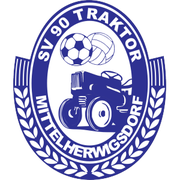
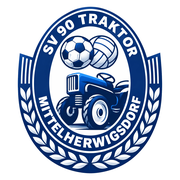
Traktor 90: neues Vereinslogo und daran angepasste Farben
Neues Wappen freigestellt (transparenter Hintergrund), Favicon,
Apple-Touch-Icon und OG-Bild neu erzeugt. Farbpalette auf das Navy des
Logos umgestellt; Bilder mit height:auto gegen Verzerrung.

Claude-Session: https://claude.ai/code/session_018j7nF5LCbzbFzG73LwaTg1

diff --git a/traktor90/index.html b/traktor90/index.html
@@ -7,7 +7,7 @@
 <meta name="description" content="SV 90 Traktor Mittelherwigsdorf e. V. – Sportverein in der südlichen Oberlausitz bei Zittau. Fußball, Volleyball und Gymnastik im Sportzentrum Mittelherwigsdorf. Sportlich aktiv seit 1863.">
 <!-- Entwurf: erst indexieren, wenn die Seite auf der Vereinsdomain live ist -->
 <meta name="robots" content="noindex,follow">
-<meta name="theme-color" content="#2e3192">
+<meta name="theme-color" content="#0b3a8c">
 <meta property="og:type" content="website">
 <meta property="og:locale" content="de_DE">
 <meta property="og:site_name" content="SV 90 Traktor Mittelherwigsdorf">
@@ -38,7 +38,7 @@
 </script>
 <style>
 :root{
-  --blau:#2e3192;--blau-dunkel:#1c1e63;--blau-tief:#121443;--blau-hell:#e9eaf7;--blau-mittel:#5558c4;
+  --blau:#0b3a8c;--blau-dunkel:#062a66;--blau-tief:#031a45;--blau-hell:#e8eef9;--blau-mittel:#2f62c4;
   --weiss:#fff;--grau:#5d6070;--linie:#d9dbe8;--text:#16182e;--bg:#f6f7fb;
   --radius:14px;--max:1180px;
   --font:system-ui,-apple-system,"Segoe UI",Roboto,Arial,sans-serif;
@@ -46,7 +46,7 @@
 *{box-sizing:border-box;margin:0;padding:0}
 html{scroll-behavior:smooth;scroll-padding-top:84px}
 body{font-family:var(--font);color:var(--text);background:var(--bg);line-height:1.6;-webkit-font-smoothing:antialiased}
-img{max-width:100%;display:block}
+img{max-width:100%;height:auto;display:block}
 a{color:var(--blau)}
 .wrap{max-width:var(--max);margin:0 auto;padding:0 20px}
 h1,h2,h3{line-height:1.15;letter-spacing:-.01em}
@@ -89,25 +89,25 @@ header{position:sticky;top:0;z-index:50;background:rgba(255,255,255,.96);backdro
 }
 
 /* Hero */
-.hero{position:relative;overflow:hidden;background:radial-gradient(1200px 600px at 85% 20%,#3d41b0 0%,var(--blau) 40%,var(--blau-tief) 100%);color:#fff;padding:90px 0 110px}
+.hero{position:relative;overflow:hidden;background:radial-gradient(1200px 600px at 85% 20%,#1a55c0 0%,var(--blau) 40%,var(--blau-tief) 100%);color:#fff;padding:90px 0 110px}
 .hero::before{content:"";position:absolute;inset:0;opacity:.09;background:
   linear-gradient(90deg,transparent calc(50% - 1px),#fff calc(50% - 1px),#fff calc(50% + 1px),transparent calc(50% + 1px)),
   radial-gradient(circle at 50% 50%,transparent 150px,#fff 151px,#fff 153px,transparent 154px);}
 .hero-grid{position:relative;display:grid;grid-template-columns:1.25fr .75fr;gap:48px;align-items:center}
 .hero h1{font-size:clamp(2.6rem,7vw,5.2rem);font-weight:900;text-transform:uppercase;line-height:.98;letter-spacing:-.02em}
-.hero h1 em{font-style:normal;color:#b9bcff}
+.hero h1 em{font-style:normal;color:#a9c6ff}
 .hero p{font-size:1.15rem;opacity:.9;max-width:560px;margin:22px 0 32px}
 .hero-btns{display:flex;gap:12px;flex-wrap:wrap}
 .hero-logo{justify-self:center;background:#fff;border-radius:50%;width:min(360px,80vw);aspect-ratio:1;display:grid;place-items:center;box-shadow:0 30px 80px rgba(0,0,0,.35),0 0 0 12px rgba(255,255,255,.08),0 0 0 26px rgba(255,255,255,.04)}
-.hero-logo img{width:62%}
+.hero-logo img{width:70%}
 .fakten{position:relative;display:grid;grid-template-columns:repeat(4,1fr);gap:1px;background:rgba(255,255,255,.18);border-radius:var(--radius);overflow:hidden;margin-top:64px}
-.fakt{background:rgba(18,20,67,.55);padding:22px 20px}
+.fakt{background:rgba(3,26,69,.55);padding:22px 20px}
 .fakt b{display:block;font-size:2rem;font-weight:900;line-height:1}
 .fakt span{font-size:.88rem;opacity:.8}
 @media (max-width:860px){.hero-grid{grid-template-columns:1fr}.hero-logo{order:-1;width:200px}.fakten{grid-template-columns:repeat(2,1fr)}}
 
 /* Spieltag-Leiste */
-.spieltag{background:#fff;margin-top:-56px;position:relative;z-index:2;border-radius:var(--radius);box-shadow:0 18px 50px rgba(28,30,99,.14);display:grid;grid-template-columns:auto 1fr auto;gap:28px;align-items:center;padding:26px 30px}
+.spieltag{background:#fff;margin-top:-56px;position:relative;z-index:2;border-radius:var(--radius);box-shadow:0 18px 50px rgba(6,42,102,.14);display:grid;grid-template-columns:auto 1fr auto;gap:28px;align-items:center;padding:26px 30px}
 .spieltag .label{font-size:.75rem;font-weight:900;letter-spacing:.14em;text-transform:uppercase;color:#fff;background:var(--blau);padding:8px 12px;border-radius:8px}
 .paarung{display:flex;align-items:center;gap:16px;flex-wrap:wrap;font-weight:800;font-size:1.1rem}
 .paarung .vs{color:var(--grau);font-weight:600}
@@ -174,7 +174,7 @@ header{position:sticky;top:0;z-index:50;background:rgba(255,255,255,.96);backdro
 .zeitstrahl::before{content:"";position:absolute;left:118px;top:6px;bottom:6px;width:2px;background:rgba(255,255,255,.22)}
 .zeitstrahl li{display:grid;grid-template-columns:100px 1fr;gap:40px;position:relative}
 .zeitstrahl li::after{content:"";position:absolute;left:111px;top:8px;width:16px;height:16px;border-radius:50%;background:#fff;box-shadow:0 0 0 5px rgba(255,255,255,.18)}
-.zeitstrahl .jahr{font-size:1.5rem;font-weight:900;text-align:right;color:#c9cbff}
+.zeitstrahl .jahr{font-size:1.5rem;font-weight:900;text-align:right;color:#b8d0ff}
 .zeitstrahl h3{font-size:1.15rem;margin-bottom:4px}
 .zeitstrahl p{opacity:.8;max-width:640px}
 @media (max-width:600px){.zeitstrahl::before{left:8px}.zeitstrahl li{grid-template-columns:1fr;gap:4px;padding-left:34px}.zeitstrahl li::after{left:1px}.zeitstrahl .jahr{text-align:left}}
@@ -228,7 +228,7 @@ footer{background:var(--blau-tief);color:rgba(255,255,255,.75);padding:56px 0 30
 <header>
   <div class="wrap nav">
     <a class="marke" href="#start" aria-label="SV 90 Traktor Mittelherwigsdorf – zur Startseite">
-      <img src="assets/logo.png" alt="Vereinswappen SV 90 Traktor Mittelherwigsdorf" width="255" height="300">
+      <img src="assets/logo.png" alt="Vereinswappen SV 90 Traktor Mittelherwigsdorf" width="554" height="640">
       <div><b>SV 90 Traktor</b><span>Mittelherwigsdorf e. V.</span></div>
     </a>
     <button class="burger" aria-label="Menü öffnen" aria-expanded="false" aria-controls="menu"><span></span><span></span><span></span></button>
@@ -250,7 +250,7 @@ footer{background:var(--blau-tief);color:rgba(255,255,255,.75);padding:56px 0 30
   <div class="wrap">
     <div class="hero-grid">
       <div>
-        <span class="eyebrow" style="color:#b9bcff">Sportverein in der südlichen Oberlausitz</span>
+        <span class="eyebrow" style="color:#a9c6ff">Sportverein in der südlichen Oberlausitz</span>
         <h1>Sportlich<br>aktiv seit <em>1863.</em></h1>
         <p>Fußball, Volleyball und Gymnastik im Sportzentrum Mittelherwigsdorf: für Kinder, Frauen und Männer, ob im Ligabetrieb oder einfach aus Spaß an der Bewegung.</p>
         <div class="hero-btns">
@@ -258,7 +258,7 @@ footer{background:var(--blau-tief);color:rgba(255,255,255,.75);padding:56px 0 30
           <a class="btn btn-rand" href="#mitmachen">Probetraining</a>
         </div>
       </div>
-      <div class="hero-logo"><img src="assets/logo.png" alt="" width="255" height="300"></div>
+      <div class="hero-logo"><img src="assets/logo.png" alt="" width="554" height="640"></div>
     </div>
     <div class="fakten">
       <div class="fakt"><b>1863</b><span>Beginn des Sports in Mittelherwigsdorf</span></div>
@@ -457,7 +457,7 @@ footer{background:var(--blau-tief);color:rgba(255,255,255,.75);padding:56px 0 30
 
 <section class="chronik" id="chronik">
   <div class="wrap">
-    <span class="eyebrow" style="color:#b9bcff">Chronik</span>
+    <span class="eyebrow" style="color:#a9c6ff">Chronik</span>
     <h2>Von 1863 bis heute</h2>
     <p class="lead">Über 160 Jahre Sport in Mittelherwigsdorf, vom Kunstradfahren und Turnen bis zum Ligabetrieb in Fußball und Volleyball.</p>
     <ol class="zeitstrahl">

diff --git a/traktor90/datenschutz/index.html b/traktor90/datenschutz/index.html
@@ -5,10 +5,10 @@
 <meta name="viewport" content="width=device-width,initial-scale=1">
 <title>Datenschutz – SV 90 Traktor Mittelherwigsdorf e. V.</title>
 <meta name="robots" content="noindex,follow">
-<meta name="theme-color" content="#2e3192">
+<meta name="theme-color" content="#0b3a8c">
 <link rel="icon" type="image/png" href="../assets/favicon.png">
 <style>
-:root{--blau:#2e3192;--blau-dunkel:#1c1e63;--blau-tief:#121443;--grau:#5d6070;--linie:#d9dbe8;--text:#16182e;--bg:#f6f7fb}
+:root{--blau:#0b3a8c;--blau-dunkel:#062a66;--blau-tief:#031a45;--grau:#5d6070;--linie:#d9dbe8;--text:#16182e;--bg:#f6f7fb}
 *{box-sizing:border-box;margin:0;padding:0}
 body{font-family:system-ui,-apple-system,"Segoe UI",Roboto,Arial,sans-serif;color:var(--text);background:var(--bg);line-height:1.65}
 a{color:var(--blau)}
@@ -31,7 +31,7 @@ footer a{color:#fff}
 </style>
 </head>
 <body>
-<header><div class="wrap nav"><a class="marke" href="../"><img src="../assets/logo.png" alt="Vereinswappen SV 90 Traktor Mittelherwigsdorf" width="255" height="300"><div><b>SV 90 Traktor</b><span>Mittelherwigsdorf e. V.</span></div></a><a class="zurueck" href="../">← Zur Startseite</a></div></header>
+<header><div class="wrap nav"><a class="marke" href="../"><img src="../assets/logo.png" alt="Vereinswappen SV 90 Traktor Mittelherwigsdorf" width="554" height="640"><div><b>SV 90 Traktor</b><span>Mittelherwigsdorf e. V.</span></div></a><a class="zurueck" href="../">← Zur Startseite</a></div></header>
 <main><div class="wrap">
 <h1>Datenschutzerklärung</h1>
 <h2>1. Verantwortlicher</h2>

diff --git a/traktor90/impressum/index.html b/traktor90/impressum/index.html
@@ -5,10 +5,10 @@
 <meta name="viewport" content="width=device-width,initial-scale=1">
 <title>Impressum – SV 90 Traktor Mittelherwigsdorf e. V.</title>
 <meta name="robots" content="noindex,follow">
-<meta name="theme-color" content="#2e3192">
+<meta name="theme-color" content="#0b3a8c">
 <link rel="icon" type="image/png" href="../assets/favicon.png">
 <style>
-:root{--blau:#2e3192;--blau-dunkel:#1c1e63;--blau-tief:#121443;--grau:#5d6070;--linie:#d9dbe8;--text:#16182e;--bg:#f6f7fb}
+:root{--blau:#0b3a8c;--blau-dunkel:#062a66;--blau-tief:#031a45;--grau:#5d6070;--linie:#d9dbe8;--text:#16182e;--bg:#f6f7fb}
 *{box-sizing:border-box;margin:0;padding:0}
 body{font-family:system-ui,-apple-system,"Segoe UI",Roboto,Arial,sans-serif;color:var(--text);background:var(--bg);line-height:1.65}
 a{color:var(--blau)}
@@ -31,7 +31,7 @@ footer a{color:#fff}
 </style>
 </head>
 <body>
-<header><div class="wrap nav"><a class="marke" href="../"><img src="../assets/logo.png" alt="Vereinswappen SV 90 Traktor Mittelherwigsdorf" width="255" height="300"><div><b>SV 90 Traktor</b><span>Mittelherwigsdorf e. V.</span></div></a><a class="zurueck" href="../">← Zur Startseite</a></div></header>
+<header><div class="wrap nav"><a class="marke" href="../"><img src="../assets/logo.png" alt="Vereinswappen SV 90 Traktor Mittelherwigsdorf" width="554" height="640"><div><b>SV 90 Traktor</b><span>Mittelherwigsdorf e. V.</span></div></a><a class="zurueck" href="../">← Zur Startseite</a></div></header>
 <main><div class="wrap">
 <h1>Impressum</h1>
 <h2>Angaben gemäß § 5 DDG</h2>

diff --git a/traktor90/INFOS.md b/traktor90/INFOS.md
@@ -21,7 +21,7 @@ Stand: 10.10.2026. Grundlage für den Website-Entwurf unter `/traktor90/`.
 | Vorstand | Jan Franze, G. Häntsch-Wißner, Maik Ketzler (Bekanntmachung 03.05.2023) | Northdata |
 | Mitglieder | ca. 150 | Vereinsseite alt |
 | Slogan | „Sportlich aktiv seit 1863“ | Vereinsseite alt |
-| Farben | Blau/Weiß; Logo-Blau #2E3192 | Logo, fussball.de |
+| Farben | Blau/Weiß; Logo-Navy ca. #032B6C, Website-Blau #0B3A8C | Logo, fussball.de |
 | Fußball Herren | SpG, Kreisklasse (2025/26: Staffel 3, im März 2026 Tabellenplatz 1) · Training Do 19:00–20:30, Sportzentrum | fussball.de, Herrenseite alt |
 | Fußball Ansprechpartner | Marcel Müller (Trainer), Gerold Vorbach | Herrenseite alt |
 | Nachwuchs | C-, D-, E-Junioren in Spielgemeinschaften, u. a. mit ESV Lok Zittau | fussball.de, Chronik |
